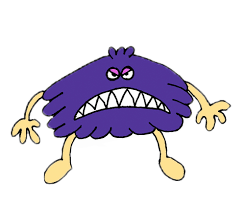
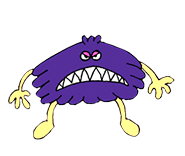
add bug to timer barin html/css

diff --git a/html/game.html b/html/game.html
@@ -43,14 +43,15 @@
     </section>
     <aside>
       <section id="highScoreSection">
-        <h2>Score:</h2><h2>Level:</h2>
-      
+        <h2>Score:</h2>
+        <h2>Level:</h2>
       </section>
       <section id="timerSection">
         <img id="timerImage">
         <div id="timerBar"></div>
+        <img id="purpleBug" src="../images/purpleBug.png" alt="Bug">
+        <img id="greenBug" src="../images/greenbug.png" alt="Bug">
         <img id="flames" src="../images/Flames.png" alt="Flames">
-
       </section>
     </aside>
   </main>

diff --git a/css/game.css b/css/game.css
@@ -66,6 +66,18 @@ max-height: 372px;
   bottom:0;
   max-width: 150px;
 }
+#purpleBug {
+  position:absolute;
+  left:0;
+  top:0;
+  max-width: 80px;
+}
+#greenBug {
+  position:absolute;
+  left:50px;
+  top:10px;
+  max-width: 80px;
+}
 
 #typingInput {
   width: 95%;
